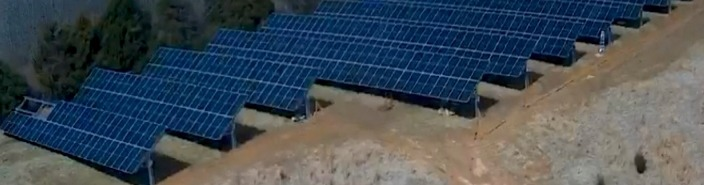
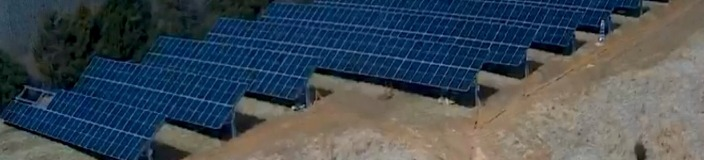
Retype the flyer; the old type is what read as dated
Layout was not the problem. IBM Plex Serif body copy reads institutional, which
is right for the mailer and wrong for the piece that is supposed to look like
marketing, and Work Sans set the display without enough personality to carry a
page. Both were doing the same work at nearly the same size, so nothing on the
page had a voice.

Bricolage Grotesque carries the display now and Instrument Sans the body, both
already sitting unused in the font set. The figure goes to 76pt, the body to a
0.70 measure with more leading, and the light-blue panel around the statistics
is gone in favour of a single rule and space. A sans text face, a wide
type-scale range and no boxes is most of what separates a page made this year
from one made fifteen years ago.

Units stack under their figures rather than sitting beside them, where the
widest value ran into the next column's number. The interquartile band rounds to
89k - 132k in the display slot because the exact figures will not set at 26pt
across a third of the measure; they stay checkable on the line below.

Claude-Session: https://claude.ai/code/session_01XGCM54kFxdbieie4gdBbRn

diff --git a/scripts/build_test_flyer.py b/scripts/build_test_flyer.py
@@ -37,12 +37,18 @@ from matplotlib.image import imread  # noqa: E402
 from matplotlib.patches import Rectangle  # noqa: E402
 
 from brand import (  # noqa: E402
-    ACCENT, ADDRESS, BRAND, EMAIL, Flow, INK, L, LOGO_PATH, MUTE, PAGE_H,
-    PAGE_W, PANEL, PAPER, PHONE, PHOTO_HERO, R, RULE_C, WEB,
+    ACCENT, ADDRESS, EMAIL, Flow, INK, L, LOGO_PATH, measure, MUTE, PAGE_H,
+    PAGE_W, PAPER, PHONE, PHOTO_HERO, R, WEB,
 )
 
-HEAD = "Work Sans"
-SERIF = "IBM Plex Serif"
+# Type is what dated the earlier version. IBM Plex Serif body copy reads
+# institutional, which is right for the mailer and wrong for the piece that is
+# supposed to look like marketing. Bricolage Grotesque carries the display, and
+# Instrument Sans the body: a sans text face, a wide type-scale range, and no
+# panel boxes is roughly what separates a page made this year from one made
+# fifteen years ago.
+DISPLAY = "Bricolage Grotesque"
+BODY = "Instrument Sans"
 MONO = "Geist Mono"
 
 # The navy field and the photograph are the two full-width elements, and how far
@@ -64,13 +70,17 @@ TOP = 1.0 if BLEED else 1.0 - EDGE * (PAGE_W / PAGE_H)
 # solarbid.config. Re-derive all of them after any change to the workbook or the
 # tariff. The single-house egg band is the one quoted because that is the farm
 # the reader compares himself against, and 66 of the 86 in this cell are it.
+# The band is rounded in the display slot because 88,986 - 131,871 is seventeen
+# characters and will not set at 26pt in a third of the measure. The exact
+# figures go in the line underneath, where they are still checkable.
 STATS = [
-    ("88,986 - 131,871", "kWh a year", "where the middle half of these farms land"),
-    ("107,958", "kWh a year", "what the median single egg house runs"),
-    ("31 kW", "demand", "median billed demand on the same farms"),
+    ("89k - 132k", "KWH A YEAR",
+     "where the middle half land, 88,986 to 131,871"),
+    ("107,958", "KWH A YEAR", "what the median single egg house runs"),
+    ("31", "KW DEMAND", "median billed on the same farms"),
 ]
 
-BODY = [
+COPY = [
     "Pull your last twelve bills and add up the kilowatt-hours. Ten minutes, "
     "and you will know whether you sit inside that band.",
 
@@ -97,24 +107,24 @@ def main():
     FL = max(L, EDGE + 0.030)
 
     # ------------------------------------------------------------ navy field
-    FIELD_BOT = 0.762
+    FIELD_BOT = 0.754
     ax.add_patch(Rectangle((EDGE, FIELD_BOT), 1 - 2 * EDGE, TOP - FIELD_BOT,
                            facecolor=INK, edgecolor="none", zorder=0))
 
-    ax.text(FL, 0.956, "METERED USAGE  ·  66 EGG FARMS  ·  RANDOLPH AND CLAY "
-            "COUNTIES", family=MONO, size=7.0, color="#7FA8CC", ha="left",
+    ax.text(FL, 0.956, "METERED USAGE   66 EGG FARMS   RANDOLPH AND CLAY "
+            "COUNTIES", family=MONO, size=6.6, color="#6E97BC", ha="left",
             va="center", zorder=2)
 
     # The one figure on the page set at size, and the only place the palette
     # allows the green to carry text.
-    ax.text(FL, 0.893, "$12,000", family=HEAD, weight="bold", size=58,
+    ax.text(FL, 0.888, "$12,000", family=DISPLAY, weight="bold", size=76,
             color=ACCENT, ha="left", va="center", zorder=2)
-    ax.text(FL, 0.848, "a year to run one egg house.", family=SERIF, size=15.5,
-            color="#C9DCEC", ha="left", va="center", zorder=2)
+    ax.text(FL, 0.836, "a year to run one egg house.", family=BODY, size=14,
+            color="#A9C4DC", ha="left", va="center", zorder=2)
 
-    head = Flow(fig, ax, 0.824, x0=FL, x1=R - 0.02)
-    head.text("How much of that is a billing mistake?", SERIF, 23,
-              weight="bold", color=PAPER, leading=1.18)
+    head = Flow(fig, ax, 0.812, x0=FL, x1=R - 0.06)
+    head.text("How much of that is a billing mistake?", DISPLAY, 25,
+              weight="bold", color=PAPER, leading=1.14)
     print(f"headline ends at y={head.y:.3f} (field bottom {FIELD_BOT})")
 
     # ----------------------------------------------------------- photograph
@@ -134,32 +144,32 @@ def main():
     # point rather than naming the picture.
     flow.text("A ground mount NEA Solar built near here. It is the last thing "
               "we do, and only if the first four say it is worth doing.",
-              SERIF, 9.0, color=MUTE, leading=1.4)
+              BODY, 8.6, color=MUTE, leading=1.4, max_w=0.60)
 
     # ------------------------------------------------------------ stat strip
-    flow.gap(0.020)
+    flow.gap(0.026)
+    ax.plot([L, R], [flow.y, flow.y], color=INK, lw=1.1, solid_capstyle="butt")
+    flow.gap(0.026)
     strip_top = flow.y
-    pad = 0.013
     col = (R - L) / 3
     for i, (big, unit, note) in enumerate(STATS):
         x = L + i * col
-        ax.text(x, strip_top - pad - 0.006, big, family=HEAD, weight="bold",
-                size=17, color=BRAND, ha="left", va="center", zorder=2)
-        ax.text(x, strip_top - pad - 0.030, unit, family=MONO, size=6.6,
+        # The unit sits under the figure rather than beside it. Set alongside,
+        # the widest value ran into the next column's number.
+        ax.text(x, strip_top, big, family=DISPLAY, weight="bold", size=26,
+                color=INK, ha="left", va="center", zorder=2)
+        ax.text(x, strip_top - 0.023, unit, family=MONO, size=6.4,
                 color=MUTE, ha="left", va="center", zorder=2)
-        sub = Flow(fig, ax, strip_top - pad - 0.043, x0=x, x1=x + col - 0.02)
-        sub.text(note, SERIF, 8.6, color=INK, leading=1.36)
+        sub = Flow(fig, ax, strip_top - 0.040, x0=x, x1=x + col - 0.030)
+        sub.text(note, BODY, 8.4, color=MUTE, leading=1.40)
         bottom = sub.y
-    strip_bot = bottom - pad
-    ax.add_patch(Rectangle((L, strip_bot), R - L, strip_top - strip_bot,
-                           facecolor=PANEL, edgecolor="none", zorder=0))
-    flow.y = strip_bot
+    flow.y = bottom
 
     # ------------------------------------------------------------------ body
-    flow.gap(0.020)
-    for i, para in enumerate(BODY):
-        flow.text(para, SERIF, 10.0, leading=1.46,
-                  gap_after=0.010 if i < len(BODY) - 1 else 0.0)
+    flow.gap(0.030)
+    for i, para in enumerate(COPY):
+        flow.text(para, BODY, 10.0, leading=1.54, max_w=0.70,
+                  gap_after=0.012 if i < len(COPY) - 1 else 0.0)
     print(f"body ends at y={flow.y:.3f}")
 
     # ----------------------------------------------------------------- close
@@ -167,11 +177,12 @@ def main():
     ax.plot([L, R], [flow.y, flow.y], color=ACCENT, lw=3.0,
             solid_capstyle="butt")
     flow.gap(0.018)
-    flow.text("Send us twelve months of your billing history.", SERIF, 15.5,
-              weight="bold", color=INK, leading=1.24, gap_after=0.008)
+    flow.text("Send us twelve months of your billing history.", DISPLAY, 18,
+              weight="bold", color=INK, leading=1.20, gap_after=0.012)
     flow.text(f"Email it to {EMAIL}. Photographs of the bills are fine. We will "
               "tell you what we find, including if that is nothing worth doing. "
-              "That answer is free too.", SERIF, 9.8, color=INK, leading=1.44)
+              "That answer is free too.", BODY, 9.8, color=INK, leading=1.52,
+              max_w=0.62)
     print(f"close ends at y={flow.y:.3f}")
 
     # ---------------------------------------------------------------- footer
@@ -181,11 +192,11 @@ def main():
         w = h * (img.shape[1] / img.shape[0]) * (PAGE_H / PAGE_W)
         ax.imshow(img, extent=(L, L + w, 0.026, 0.026 + h), zorder=3,
                   aspect="auto")
-    ax.text(R, 0.048, "Cleaner Greener Future, with NEA Solar", family=HEAD,
-            weight="bold", size=9.2, color=INK, ha="right", va="center")
-    ax.text(R, 0.032, f"{PHONE}   ·   {WEB}", family=HEAD, size=8.4,
+    ax.text(R, 0.048, "Cleaner Greener Future, with NEA Solar", family=BODY,
+            weight="bold", size=9.0, color=INK, ha="right", va="center")
+    ax.text(R, 0.032, f"{PHONE}    {WEB}", family=BODY, size=8.2,
             color=MUTE, ha="right", va="center")
-    ax.text(R, 0.018, ADDRESS, family=HEAD, size=8.4, color=MUTE, ha="right",
+    ax.text(R, 0.018, ADDRESS, family=BODY, size=8.2, color=MUTE, ha="right",
             va="center")
 
     out_pdf = Path("out/cgf_test_flyer.pdf")

diff --git a/scripts/prep_assets.py b/scripts/prep_assets.py
@@ -28,7 +28,7 @@ WIDE_ASPECT = 4.6
 # The test flyer runs one photograph full bleed rather than a pair of strips.
 # A ground mount beside grain bins is the proof on that page, so it gets real
 # proportion instead of the letterbox the mailer settles for.
-HERO_ASPECT = 3.8
+HERO_ASPECT = 4.4
 
 # Source files as dropped in, with the vertical bias for the crop. Farm photos
 # carry a lot of sky that does nothing, so both bias downward toward the array.
